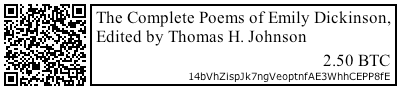
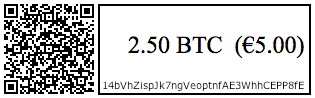
converted swatches to "price only" format

diff --git a/src/demo/bitcoinBooks/index.html b/src/demo/bitcoinBooks/index.html
@@ -89,24 +89,19 @@ which.style.borderColor=color
        <table border="0" padding="0" cellspacing="0" width="100%">
          <tr>
            <td height="6"> </td>
-         </tr>
-         <tr>
-           <td rowspan="4" width="8"> </td>
-           <td rowspan="4" valign="top" width="20%"><img align="top" src="thumbnail1.png"></td>
-           <td colspan="2">A Year in Provence,</td>
+         </tr><tr>
+           <td rowspan="3" width="8"> </td>
+           <td rowspan="3" valign="top" width="20%"><img align="top" src="thumbnail1.png"></td>
+           <td colspan="1">A Year in Provence,</td>
          </tr><tr>
            <td>by Peter Mayle</td>
-         </tr> <tr>
-           <td height="6"> </td>
          </tr><tr>
-           <td colspan="2"><font size="-1"><p>Enjoy an irresistible feast of humour and discover the joys of French rural living with Peter Mayle's bestselling, much-loved account of 'A Year In Provence'.</p></font></td>
+           <td colspan="1"><font size="-1"><p>Enjoy an irresistible feast of humour and discover the joys of French rural living with Peter Mayle's bestselling, much-loved account of 'A Year In Provence'.</p></font></td>
          </tr><tr class="ui-widget-content-darker">
-           <td colspan="4" width="100%" height="6"> </td>
-         </tr>
+           <td colspan="3" width="100%" height="6"> </td>
          </tr><tr class="ui-widget-content-darker">
            <td width="6"> </td>
-           <td colspan="2" width="60%"><img src="swatch1.png" draggable="true" class="borderimage" onMouseover="borderit(this,'#9ec0da')" onMouseout="borderit(this,'#e2e5e7')" alt="Drag to MultiBit to buy" title="Drag to MultiBit to buy"/></td>
-           <td align="left">&euro;3.90</td>
+           <td colspan="2"><img src="swatch1.png" draggable="true" class="borderimage" onMouseover="borderit(this,'#9ec0da')" onMouseout="borderit(this,'#e2e5e7')" alt="Drag to MultiBit to buy" title="Drag to MultiBit to buy"/></td>
          </tr>
        </table>
        </div>
@@ -116,21 +111,19 @@ which.style.borderColor=color
        <table border="0" padding="0" cellspacing="0" width="100%">
          <tr>
            <td height="6"> </td>
-         </tr>
-         <tr>
+         </tr><tr>
            <td rowspan="3" width="8"> </td>
            <td rowspan="3" valign="top" width="20%"><img align="top" src="thumbnail2.png"></td>
-           <td colspan="2">Cryptonomicon,</td>
+           <td colspan="1">Cryptonomicon,</td>
          </tr><tr>
            <td>by Neal Stephenson</td>
          </tr><tr>
            <td colspan="1"><font size="-1"><p>A brilliant patchwork of codebreaking mathematicians and their descendants who are striving to create a datahaven in the Philippines...trust me on this one' Guardian</p></font></td>
          </tr><tr class="ui-widget-content-darker">
            <td colspan="3" width="100%" height="6"> </td>
-         </tr>
          </tr><tr class="ui-widget-content-darker">
            <td width="6"> </td>
-           <td colspan="2"><img src="swatch2b.png" draggable="true" class="borderimage" onMouseover="borderit(this,'#9ec0da')" onMouseout="borderit(this,'#e2e5e7')" alt="Drag to MultiBit to buy" title="Drag to MultiBit to buy"/></td>
+           <td colspan="2"><img src="swatch2.png" draggable="true" class="borderimage" onMouseover="borderit(this,'#9ec0da')" onMouseout="borderit(this,'#e2e5e7')" alt="Drag to MultiBit to buy" title="Drag to MultiBit to buy"/></td>
          </tr>
        </table>
        </div>
@@ -144,18 +137,17 @@ which.style.borderColor=color
          <tr>
            <td rowspan="3" width="8"> </td>
            <td rowspan="3" valign="top" width="20%"><img align="top" src="thumbnail3.png"></td>
-           <td colspan="2">Plumbing and Central Heating,</td>
+           <td colspan="1">Plumbing and Central Heating,</td>
          </tr><tr>
            <td>by Mike Lawrence</td>
          </tr><tr>
-           <td colspan="2"><font size="-1"><p>This guide begins with the basic skills of plumbing, which once mastered, can be applied to any situation, from mending a leaking tap to installing a new shower unit.</p></font></td>
+           <td colspan="1"><font size="-1"><p>This guide begins with the basic skills of plumbing, which once mastered, can be applied to any situation, from mending a leaking tap to installing a new shower unit.</p></font></td>
          </tr><tr class="ui-widget-content-darker">
-           <td colspan="4" width="100%" height="6"> </td>
+           <td colspan="3" width="100%" height="6"> </td>
          </tr>
          </tr><tr class="ui-widget-content-darker">
            <td width="6"> </td>
-           <td colspan="2" width="60%"><img src="swatch3.png" draggable="true" class="borderimage" onMouseover="borderit(this,'#9ec0da')" onMouseout="borderit(this,'#e2e5e7')" alt="Drag to MultiBit to buy" title="Drag to MultiBit to buy"/></td>
-           <td align="left">&euro;10.20</td>
+           <td colspan="2"><img src="swatch3.png" draggable="true" class="borderimage" onMouseover="borderit(this,'#9ec0da')" onMouseout="borderit(this,'#e2e5e7')" alt="Drag to MultiBit to buy" title="Drag to MultiBit to buy"/></td>
          </tr>
        </table>
        </div>
@@ -169,23 +161,21 @@ which.style.borderColor=color
          <tr>
            <td rowspan="3" width="8"> </td>
            <td rowspan="3" valign="top" width="20%"><img align="top" src="thumbnail4.png"></td>
-           <td colspan="2">The Quantum Thief,</td>
+           <td colspan="1">The Quantum Thief,</td>
          </tr><tr>
            <td>by Hannu Rajaniemi</td>
          </tr><tr>
-           <td colspan="2"><font size="-1"><p>The most exciting SF debut of the last five years - a star to stand alongside Alistair Reynolds and Richard Morgan.</p></font></td>
+           <td colspan="1"><font size="-1"><p>The most exciting SF debut of the last five years - a star to stand alongside Alistair Reynolds and Richard Morgan.</p></font></td>
          </tr><tr class="ui-widget-content-darker">
-           <td colspan="4" width="100%" height="6"> </td>
+           <td colspan="3" width="100%" height="6"> </td>
          </tr>
          </tr><tr class="ui-widget-content-darker">
            <td width="6"> </td>
-           <td colspan="2" width="60%"><img src="swatch4.png" draggable="true" class="borderimage" onMouseover="borderit(this,'#9ec0da')" onMouseout="borderit(this,'#e2e5e7')" ondragstart="dragStartHandler(event)" alt="Drag to MultiBit to buy" title="Drag to MultiBit to buy"/></td>
-           <td align="left">&euro;8.00</td>
+           <td colspan="2"><img src="swatch4.png" draggable="true" class="borderimage" onMouseover="borderit(this,'#9ec0da')" onMouseout="borderit(this,'#e2e5e7')" ondragstart="dragStartHandler(event)" alt="Drag to MultiBit to buy" title="Drag to MultiBit to buy"/></td>
          </tr>
        </table>
        </div>
        <br>
-
 
        <div class="ui-widget-content">
        <table border="0" padding="0" cellspacing="0" width="100%">
@@ -195,18 +185,17 @@ which.style.borderColor=color
          <tr>
            <td rowspan="3" width="8"> </td>
            <td rowspan="3" valign="top" width="20%"><img align="top" src="thumbnail5.png"></td>
-           <td colspan="2">The Complete Works of Emily Dickinson,</td>
+           <td colspan="1">The Complete Works of Emily Dickinson,</td>
          </tr><tr>
            <td>Edited by Thomas H Johnson</td>
          </tr><tr>
-           <td colspan="2"><font size="-1"><p>The Complete Poems of Emily Dickinson is the only one-volume edition containing all Emily Dickinson's poems.</p></font></td>
+           <td colspan="1"><font size="-1"><p>The Complete Poems of Emily Dickinson is the only one-volume edition containing all Emily Dickinson's poems.</p></font></td>
          </tr><tr class="ui-widget-content-darker">
-           <td colspan="4" width="100%" height="6"> </td>
+           <td colspan="3" width="100%" height="6"> </td>
          </tr>
          </tr><tr class="ui-widget-content-darker">
            <td width="6"> </td>
-           <td colspan="2" width="60%"><img src="swatch5.png" draggable="true" class="borderimage" onMouseover="borderit(this,'#9ec0da')" onMouseout="borderit(this,'#e2e5e7')" alt="Drag to MultiBit to buy" title="Drag to MultiBit to buy"/></td>
-           <td align="left">&euro;5.00</td>
+           <td colspan="2"><img src="swatch5.png" draggable="true" class="borderimage" onMouseover="borderit(this,'#9ec0da')" onMouseout="borderit(this,'#e2e5e7')" alt="Drag to MultiBit to buy" title="Drag to MultiBit to buy"/></td>
          </tr>
        </table>
        </div>
